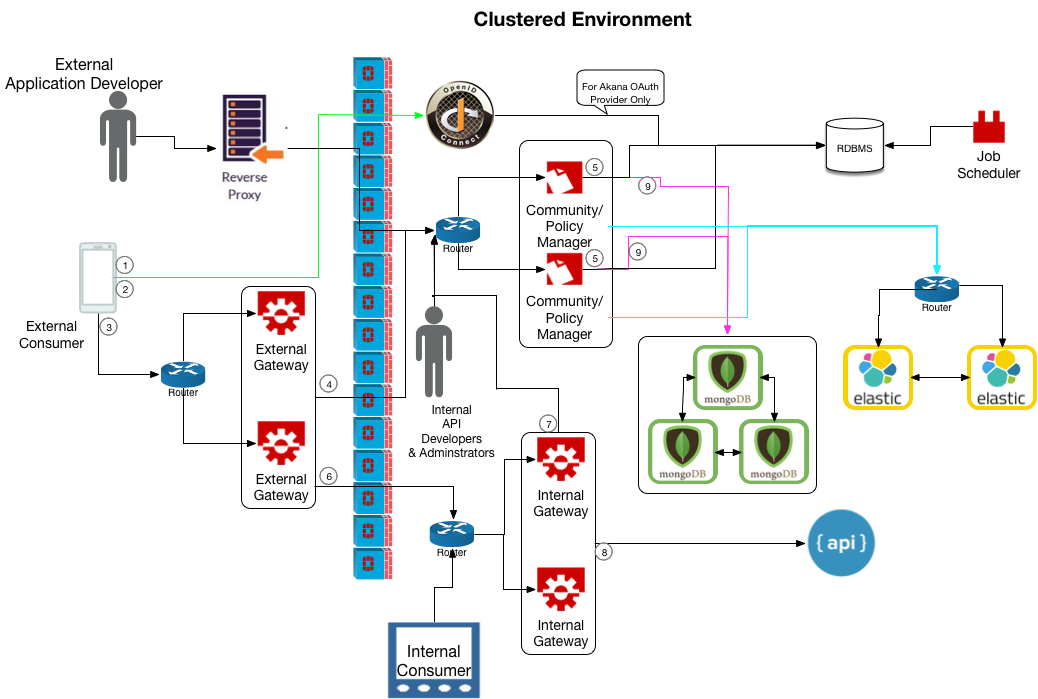
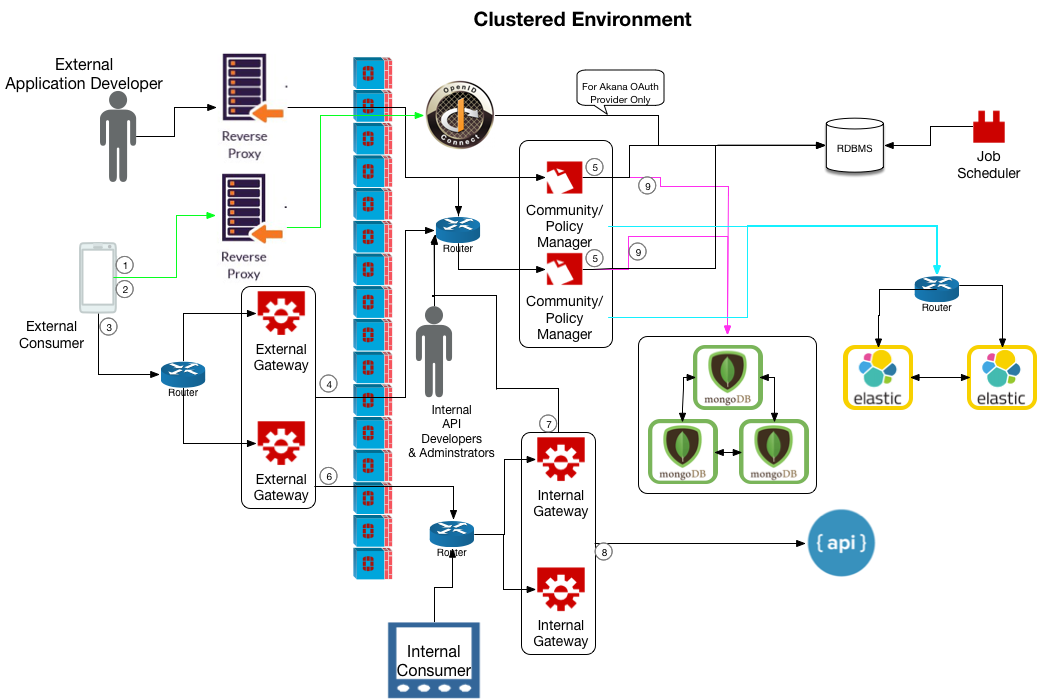
ATMO-25680 deployment example

Changed region(s): [[0.185, 0.0601, 0.2775, 0.4206], [0.3083, 0.1502, 0.4008, 0.1803]]

diff --git a/sp/deployment/deployment_secure.htm b/sp/deployment/deployment_secure.htm
@@ -32,7 +32,7 @@ nav-title: Sample Deployment Scenario
 			<li><a href="#components_cm">Community Manager (CM)</a></li>
 			<li><a href="#components_scheduler">Job Scheduler</a></li>
 			<li><a href="#components_oauth">OAuth</a></li>
-			<li><a href="#components_reverseproxy">Reverse Proxy</a></li>
+			<li><a href="#components_reverseproxy">Reverse Proxies</a></li>
 			<li><a href="#components_nd">API Gateway/Internal Gateway (Network Director)</a></li>
 			<li><a href="#components_app_dev">External App Developer</a></li>
 			<li><a href="#components_es">Elasticsearch</a></li>
@@ -102,7 +102,7 @@ nav-title: Sample Deployment Scenario
 	<li><a href="#components_cm">Community Manager (CM)</a></li>
 	<li><a href="#components_scheduler">Job Scheduler</a></li>
 	<li><a href="#components_oauth">OAuth</a></li>
-	<li><a href="#components_reverseproxy">Reverse Proxy</a></li>
+	<li><a href="#components_reverseproxy">Reverse Proxies</a></li>
 	<li><a href="#components_nd">API Gateway/Internal Gateway (Network Director)</a></li>
 	<li><a href="#components_app_dev">External App Developer</a></li>
 	<li><a href="#components_es">Elasticsearch</a></li>
@@ -178,11 +178,11 @@ nav-title: Sample Deployment Scenario
 	
 	<li>Akana Community Manager OAuth Provider&nbsp;{<span class="apidoc_red">? not sure</span>}</li>
 </ul>
-<h4 id="components_reverseproxy">Reverse Proxy</h4>
-<p>The reverse proxy provides a way for users to access the containers that are behind the firewall. In this example, the reverse proxy performs two functions:</p>
+<h4 id="components_reverseproxy">Reverse Proxies</h4>
+<p>The reverse proxies provide a way for users to access the containers that are behind the firewall. In this example, the reverse proxies perform two functions:</p>
 <ul>
-	<li>It allows external access into the CM containers.</li>
-	<li>It allows apps to reverse proxy into the OAuth provider.</li>
+	<li><span class="apidoc_red">Allowing apps and external consumers external access into the CM containers</span>.</li>
+	<li><span class="apidoc_red">Allowing apps and external consumers to reverse proxy into the OAuth provider</span>.</li>
 </ul>
 <p>The platform doesn't provide reverse proxy functionality. You can use a third-party product such as  HAProxy, F5, or NGINX.</p>
 
